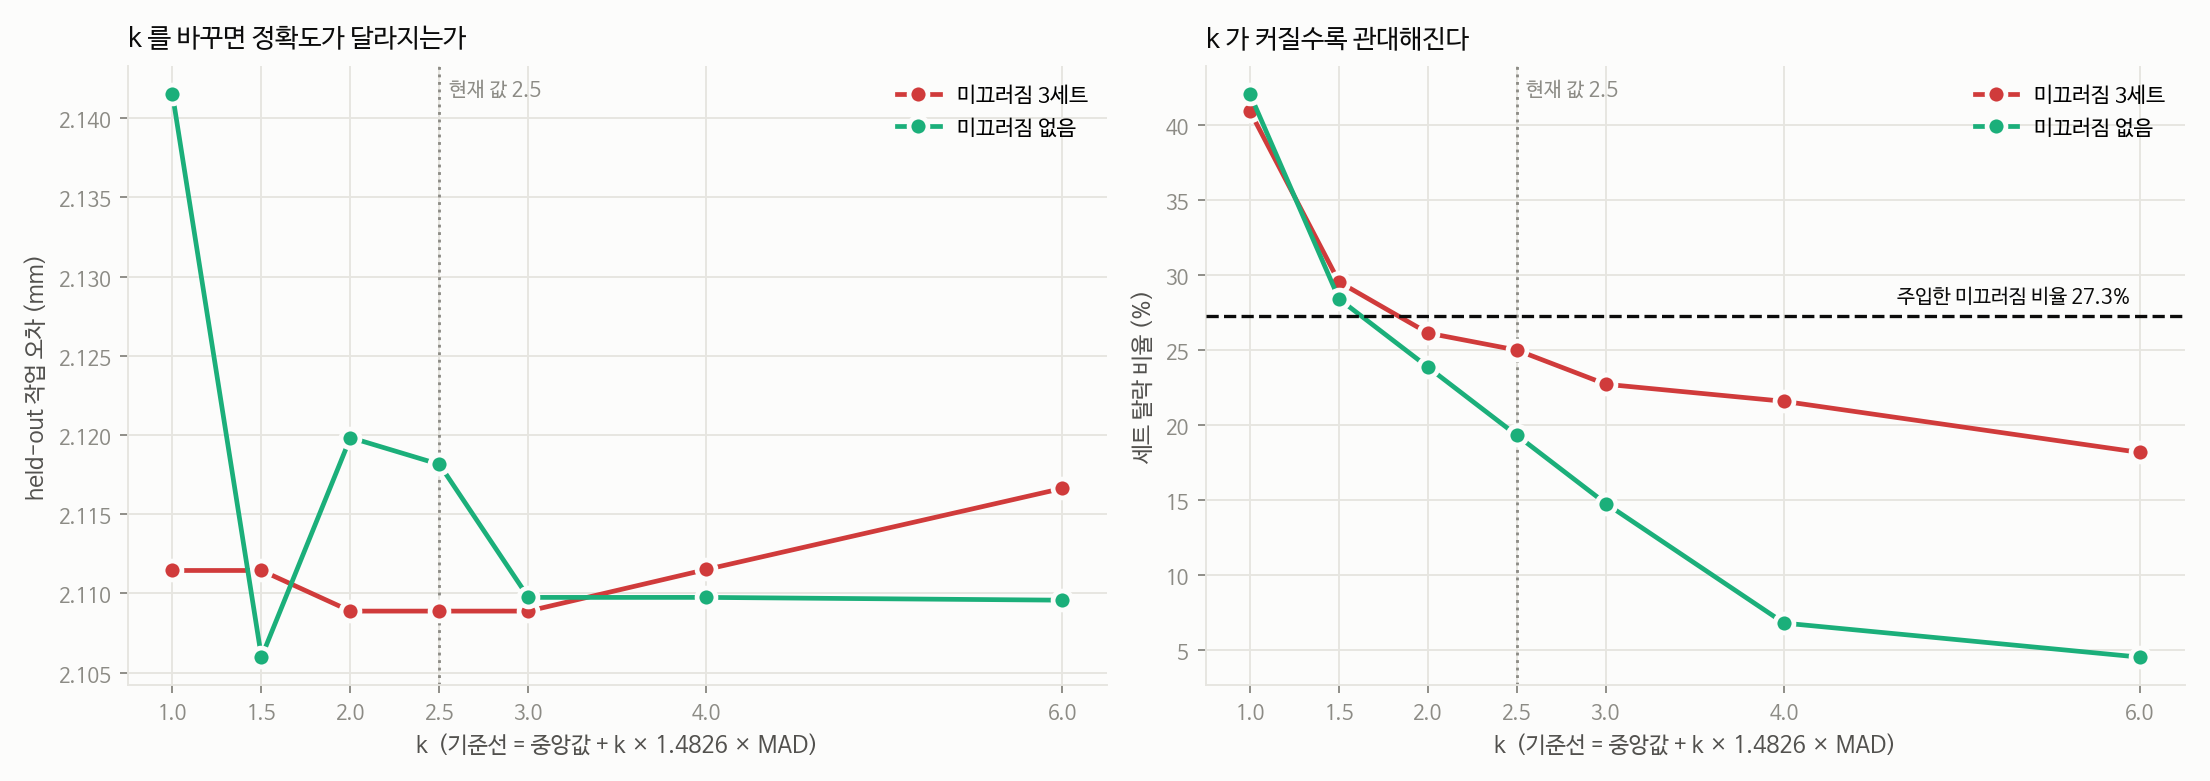
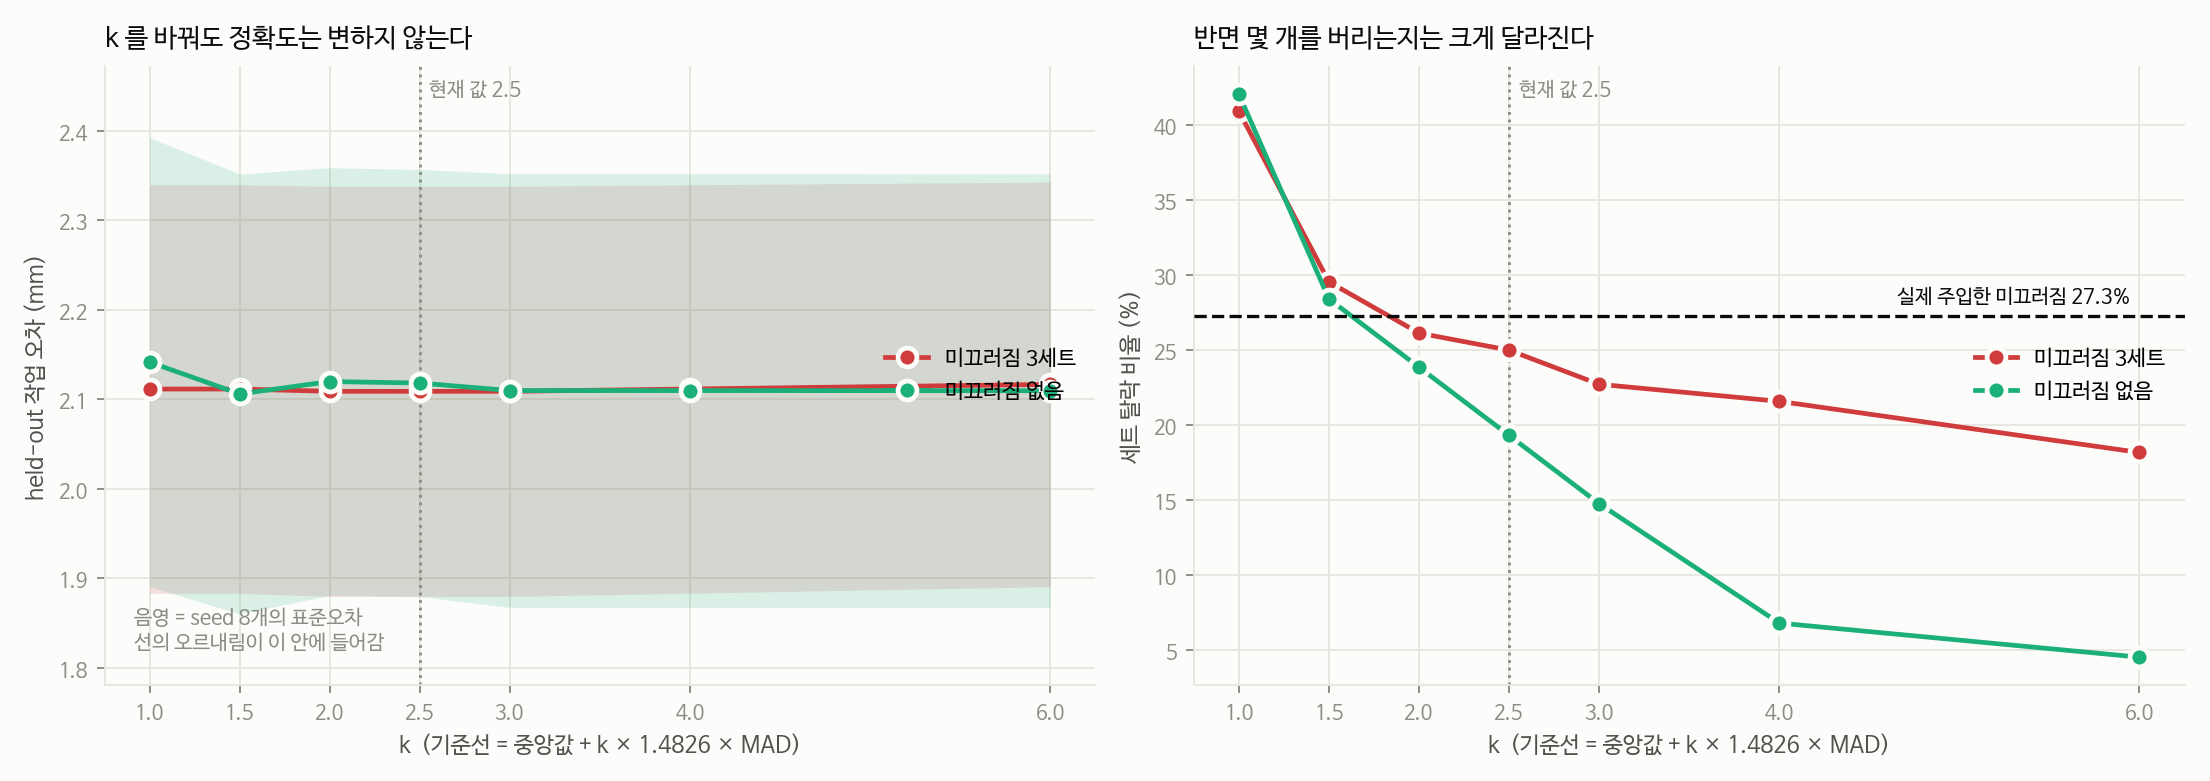
그림 6의 y축 확대 문제 수정 (seed 표준오차 밴드 추가)
밴드 없이 y축이 2.105~2.142mm로 확대되어 정확도가 크게 요동치는 것처럼
보였다. 실제 변동은 0.037mm로 seed 산포 안이며 결론은 '둔감하다'이다.
표준오차 밴드를 함께 그려 그림이 결론과 같은 방향을 가리키게 했고,
제목도 '변하지 않는다' / '반면 몇 개를 버리는지는 크게 달라진다'로 바꿨다.

diff --git a/Simulation/run_gate_study.py b/Simulation/run_gate_study.py
@@ -234,8 +234,14 @@ def experiment_g(seeds, workers, outdir, cached=None):
             rej[f"{name}|{k}"] = float(np.mean(rates)) if rates else 0.0
 
     fig, axes = plt.subplots(1, 2, figsize=(13, 4.6))
+    # 왼쪽은 seed 표준오차 밴드를 함께 그린다. 밴드를 빼면 y축이 확대되어
+    # 변동이 실제보다 크게 보이고, 결론("둔감하다")과 반대로 읽힌다.
     for name, label, color, _ in K_SCENARIOS:
-        ys = [out[f"G|{name}|{k}"][0] for k in K_VALUES]
+        ys = np.array([out[f"G|{name}|{k}"][0] for k in K_VALUES])
+        sd = np.array([out[f"G|{name}|{k}"][1] for k in K_VALUES])
+        se = sd / np.sqrt(max(out[f"G|{name}|{K_VALUES[0]}"][2], 1))
+        axes[0].fill_between(K_VALUES, ys - se, ys + se, color=color,
+                             alpha=0.15, linewidth=0, zorder=2)
         axes[0].plot(K_VALUES, ys, color=color, linewidth=2.0, marker="o",
                      markersize=8, markeredgecolor=SURFACE, markeredgewidth=2,
                      label=label, zorder=3)
@@ -243,9 +249,12 @@ def experiment_g(seeds, workers, outdir, cached=None):
         axes[1].plot(K_VALUES, rs, color=color, linewidth=2.0, marker="o",
                      markersize=8, markeredgecolor=SURFACE, markeredgewidth=2,
                      label=label, zorder=3)
+    axes[0].annotate("음영 = seed 표준오차\n선의 오르내림이 이 안에 들어감",
+                     (0.03, 0.06), xycoords="axes fraction",
+                     fontsize=8.5, color=MUTED)
     for ax, ylabel, title in [
-        (axes[0], "held-out 작업 오차 (mm)", "k 를 바꾸면 정확도가 달라지는가"),
-        (axes[1], "세트 탈락 비율 (%)", "k 가 커질수록 관대해진다"),
+        (axes[0], "held-out 작업 오차 (mm)", "k 를 바꿔도 정확도는 변하지 않는다"),
+        (axes[1], "세트 탈락 비율 (%)", "반면 몇 개를 버리는지는 크게 달라진다"),
     ]:
         _style(ax, "k  (기준선 = 중앙값 + k × 1.4826 × MAD)", ylabel, title)
         ax.set_xticks(K_VALUES)
@@ -253,10 +262,10 @@ def experiment_g(seeds, workers, outdir, cached=None):
         ax.annotate("현재 값 2.5", (2.5, ax.get_ylim()[1]),
                     textcoords="offset points", xytext=(4, -12),
                     color=MUTED, fontsize=8.5)
-        ax.legend(loc="best", frameon=False, fontsize=9)
+        ax.legend(loc="center right", frameon=False, fontsize=9)
     # 미끄러짐 3/11 = 27.3% 기준선
     axes[1].axhline(3 / 11 * 100, color=INK, linewidth=1.4, linestyle="--", zorder=4)
-    axes[1].annotate("주입한 미끄러짐 비율 27.3%", (K_VALUES[-1], 3 / 11 * 100),
+    axes[1].annotate("실제 주입한 미끄러짐 27.3%", (K_VALUES[-1], 3 / 11 * 100),
                      textcoords="offset points", xytext=(-4, 6),
                      ha="right", fontsize=8.5, color=INK)
     fig.tight_layout()
